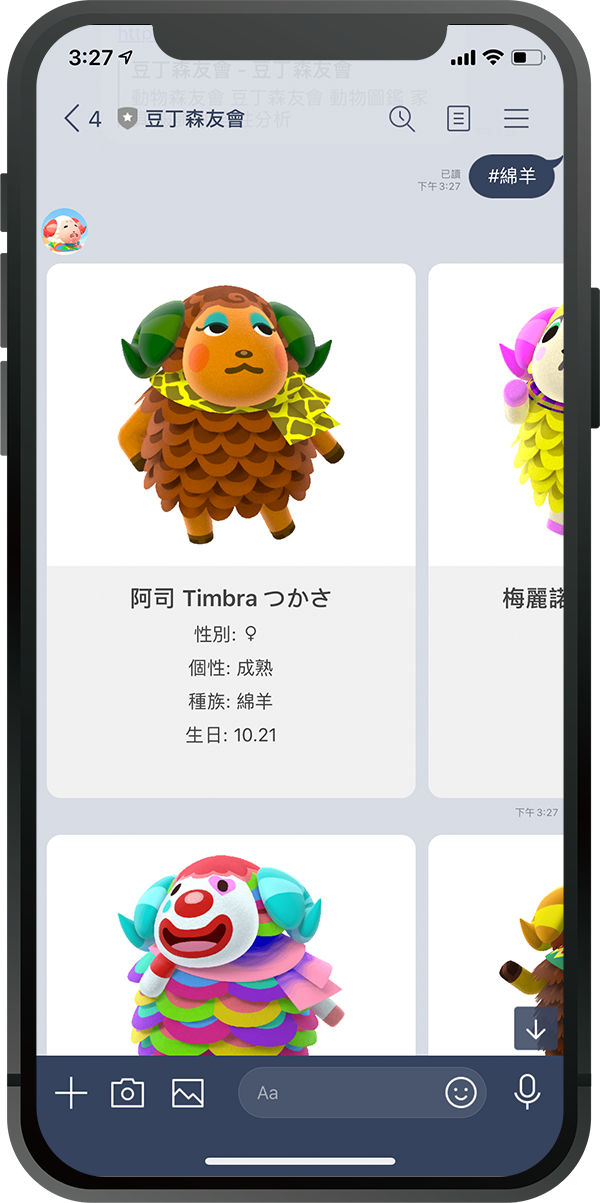
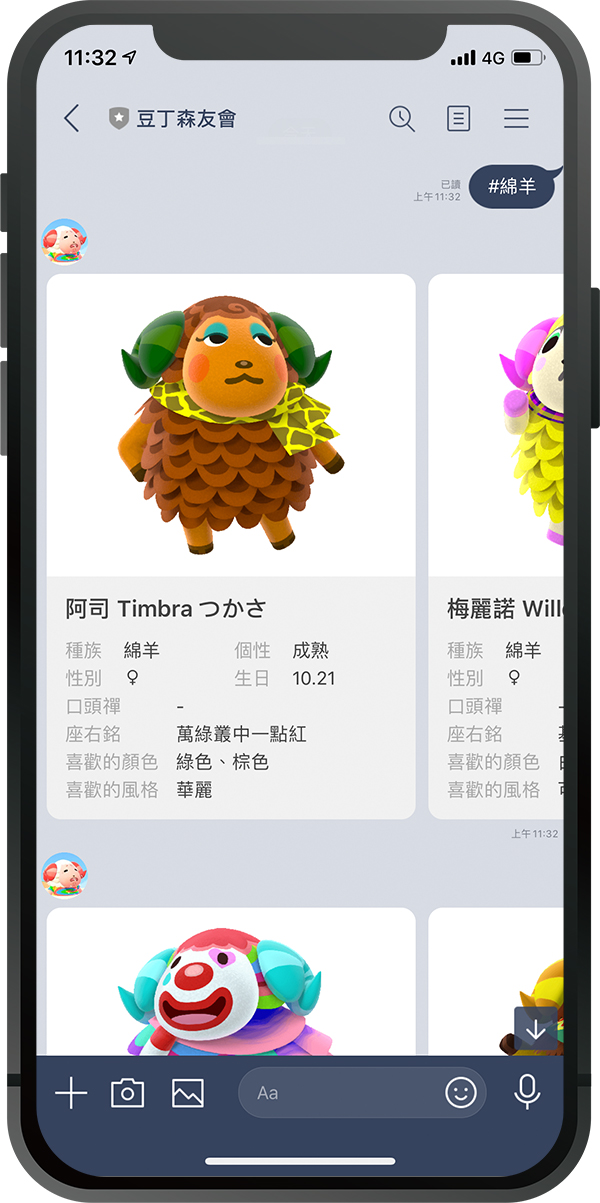
quni:20200522 update 豆丁教學

diff --git a/public/quniUse/instructions.html b/public/quniUse/instructions.html
@@ -157,6 +157,8 @@
                         <li>生日</li>
                         <li>口頭禪</li>
                         <li>座右銘</li>
+                        <li>喜歡的顏色</li>
+                        <li>喜歡的風格</li>
                         <li>目標</li>
                         <li>最喜歡的歌曲</li>
                         <li>家的外觀</li>
@@ -263,7 +265,7 @@
                         </span>
                       </p>
                       <h3 class="instructions-title">【化石】查詢化石</h3>
-                      <p>與化石相關，只要輸入「<span class="text-danger">化石+名稱</span>」，例如： 「<span class="text-danger">化石 暴龍</span>」</p>
+                      <p>與化石相關，只要輸入「<span class="text-danger">化石+名稱</span>」，例如： 「<span class="text-danger">化石 琥珀</span>」</p>
                       <p class="instructions-img">
                         <span class="instructions-img-box">
                           <img src="../image/instructions/doting_instructions_fossil.jpg" alt="動物森友會 LINE 機器人 | 豆丁森友會 | @875uxytu" class="img-fluid">
@@ -299,7 +301,12 @@
                       <h3 class="instructions-title">其他有趣小功能</h3>
                       <p>每天試試手氣，輸入「<span class="text-danger">抽</span>」來看看今天會不會抽到你心中的SSR角色！</p>
                       <p class="instructions-img">
-                        <img src="../image/instructions/doting_instructions_amiibo.jpg" alt="動物森友會 LINE 機器人 | 豆丁森友會 | @875uxytu" class="img-fluid">
+                        <span class="instructions-img-box">
+                          <img src="../image/instructions/doting_instructions_amiibo01.jpg" alt="動物森友會 LINE 機器人 | 豆丁森友會 | @875uxytu" class="img-fluid">
+                        </span>
+                        <span class="instructions-img-box">
+                          <img src="../image/instructions/doting_instructions_amiibo02.jpg" alt="動物森友會 LINE 機器人 | 豆丁森友會 | @875uxytu" class="img-fluid">
+                        </span>
                       </p>
                       <p>也可以輸入「<span class="text-danger">搜尋排行榜</span>」看看大家都輸入些什麼關鍵字查詢</p>
                       <p class="instructions-img">

diff --git a/resources/views/instructions.blade.php b/resources/views/instructions.blade.php
@@ -101,6 +101,8 @@
                   <li>生日</li>
                   <li>口頭禪</li>
                   <li>座右銘</li>
+                  <li>喜歡的顏色</li>
+                  <li>喜歡的風格</li>
                   <li>目標</li>
                   <li>最喜歡的歌曲</li>
                   <li>家的外觀</li>
@@ -263,7 +265,12 @@
                 <h3 class="instructions-title">其他有趣小功能</h3>
                 <p>每天試試手氣，輸入「<span class="text-danger">抽</span>」來看看今天會不會抽到你心中的SSR角色！</p>
                 <p class="instructions-img">
-                  <img src="../image/instructions/doting_instructions_amiibo.jpg" alt="動物森友會 LINE 機器人 | 豆丁森友會 | @875uxytu" class="img-fluid">
+                  <span class="instructions-img-box">
+                    <img src="../image/instructions/doting_instructions_amiibo01.jpg" alt="動物森友會 LINE 機器人 | 豆丁森友會 | @875uxytu" class="img-fluid">
+                  </span>
+                  <span class="instructions-img-box">
+                    <img src="../image/instructions/doting_instructions_amiibo02.jpg" alt="動物森友會 LINE 機器人 | 豆丁森友會 | @875uxytu" class="img-fluid">
+                  </span>
                 </p>
                 <p>也可以輸入「<span class="text-danger">搜尋排行榜</span>」看看大家都輸入些什麼關鍵字查詢</p>
                 <p class="instructions-img">
